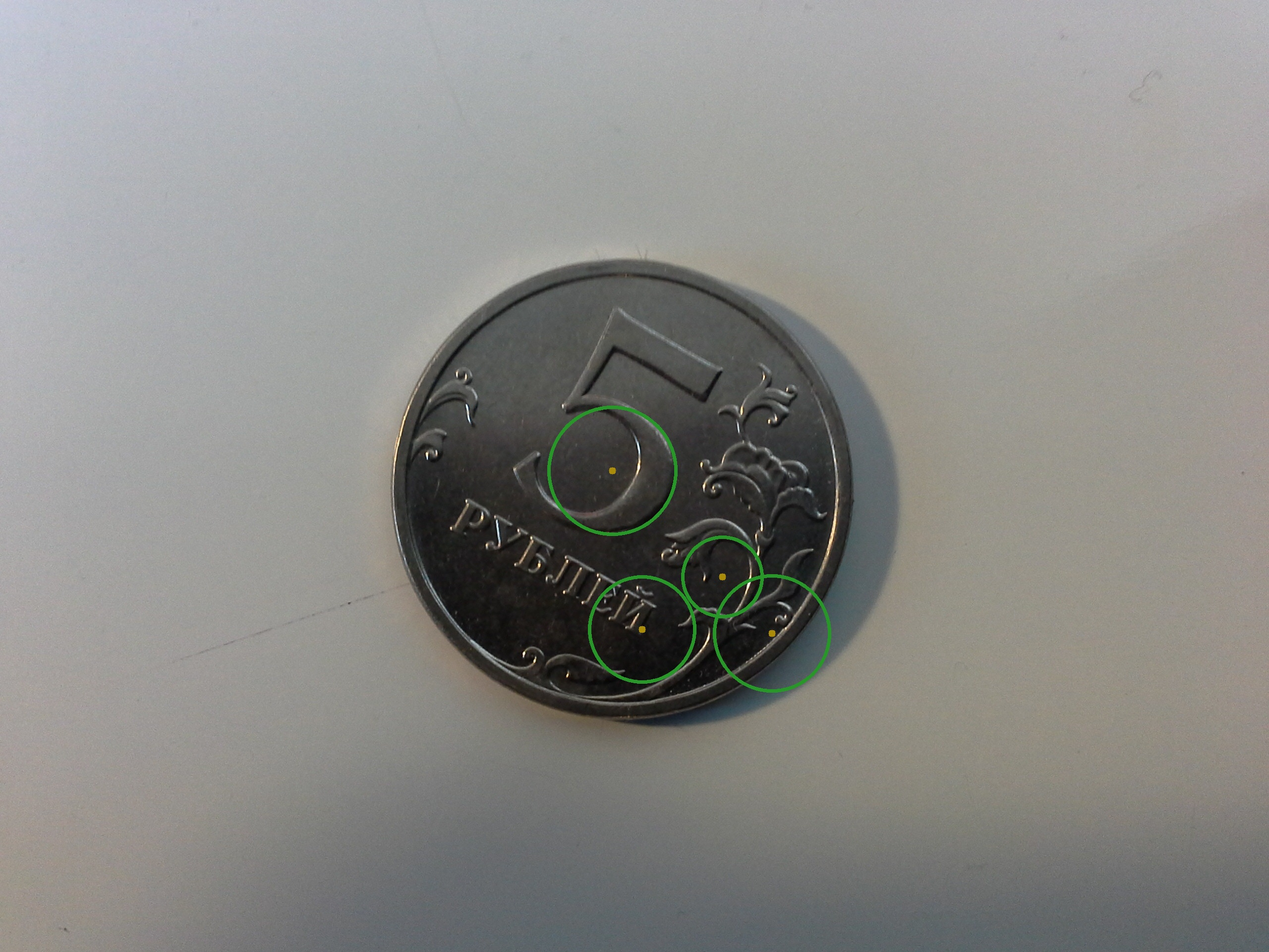
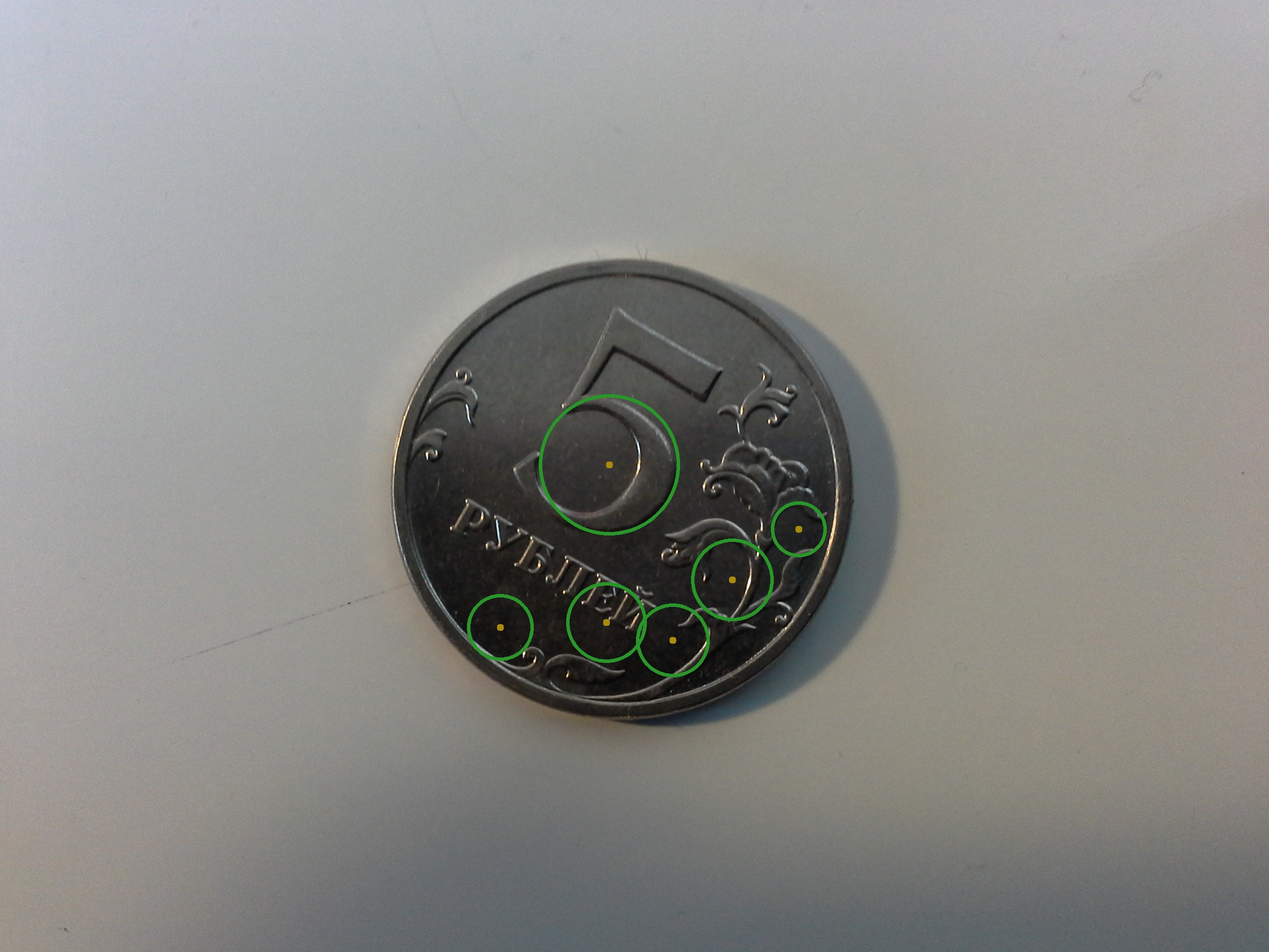
Some more images!

diff --git a/src.py b/src.py
@@ -3,8 +3,8 @@ import cv2;
 import os;
 
 IMAGE_PATH_ROOT = "E:\YandexDisk\Learning\TechnoPark\CUDA\TP_CUDA\photos\\"
-IMAGE_PATH_DETECTOR_IN = "detector\\"
-IMAGE_PATH_DETECTOR_OUT = "detector\out\\"
+IMAGE_PATH_DETECTOR_IN = "detector_new\\"
+IMAGE_PATH_DETECTOR_OUT = "detector_new\out\\"
 YELLOW_COIN_COLORS_BGR = [
     # 10 kops
     ([45, 65, 85], [45, 65, 85]),       #55412d
@@ -24,7 +24,7 @@ YELLOW_COIN_COLORS_BGR = [
     # 10 roubles
     ([28, 55, 74], [28, 55, 74]),       #4a371c
 ]
-YELLOW_COIN_COLOR_BOUNDARY = ([-10, -10, -15], [15, 15, 20])
+YELLOW_COIN_COLOR_BOUNDARY = ([-15, -15, -20], [30, 35, 20])
 SILVER_COIN_COLORS_BGR = [
     # 5 roubles
     ([69, 77, 86], [69, 77, 86]),       #564d45
@@ -33,8 +33,8 @@ SILVER_COIN_COLORS_BGR = [
         # enlightened
     ([124, 173, 202], [124, 173, 202]), #caad7c
     ([181, 155, 134], [181, 155, 134]), #869bb5
-    #([173, 150, 130], [173, 150, 130]), #8296ad
-    #([141, 126, 112], [141, 126, 112]), #707e8d
+    ([173, 150, 130], [173, 150, 130]), #8296ad
+    ([141, 126, 112], [141, 126, 112]), #707e8d
     # 1 rouble
     ([55, 63, 74], [55, 63, 74]),       #4a3f37
     # 2 roubles
@@ -44,7 +44,7 @@ SILVER_COIN_COLORS_BGR = [
     # 10 roubles
     ([82, 85, 86], [82, 85, 86]),       #565552
 ]
-SILVER_COIN_COLOR_BOUNDARY = ([-15, -15, -15], [15, 15, 15])
+SILVER_COIN_COLOR_BOUNDARY = ([-15, -15, -15], [30, 30, 30])
 
 def print_image(image):
     cv2.namedWindow('image', cv2.WINDOW_NORMAL)
@@ -87,8 +87,10 @@ def preprocess_image(image):
     masked = apply_masks(blurred)
     masked = cv2.cvtColor(masked, cv2.COLOR_BGR2GRAY)
     #thresholded = cv2.adaptiveThreshold(masked, 255, cv2.ADAPTIVE_THRESH_GAUSSIAN_C, cv2.THRESH_BINARY, 15, 1.7)
-    _,  thresholded = cv2.threshold(masked, 10, 255, cv2.THRESH_BINARY_INV )
-    blurred_again = cv2.GaussianBlur(thresholded, (37, 37), 0)
+    _,  thresholded = cv2.threshold(masked, 10, 255, cv2.THRESH_BINARY_INV)
+    _,  thresholded2 = cv2.threshold(masked, 120, 255, cv2.THRESH_BINARY)
+    thresholded3 = cv2.bitwise_xor(thresholded, thresholded2)
+    blurred_again = cv2.GaussianBlur(thresholded3, (13, 13), 0)
     return blurred_again
 """
     cv2.namedWindow('original', cv2.WINDOW_NORMAL);
@@ -109,7 +111,7 @@ def preprocess_image(image):
 """
 
 def get_circles(image):
-    circles = cv2.HoughCircles(image, cv2.cv.CV_HOUGH_GRADIENT, 2, 100, param1=100, param2=85, minRadius=25, maxRadius=150);
+    circles = cv2.HoughCircles(image, cv2.cv.CV_HOUGH_GRADIENT, 2, 120, param1=100, param2=75, minRadius=15, maxRadius=150);
     if circles != None:
         circles = numpy.uint16(numpy.around(circles))
     return circles
@@ -134,5 +136,5 @@ for image in filenames:
     cv2.imwrite(IMAGE_PATH_ROOT+IMAGE_PATH_DETECTOR_OUT+image, img)
     cv2.resizeWindow(image, 1024, 768);
 
-cv2.waitKey(0);
-cv2.destroyAllWindows();
+    #cv2.waitKey(0);
+    cv2.destroyAllWindows();
